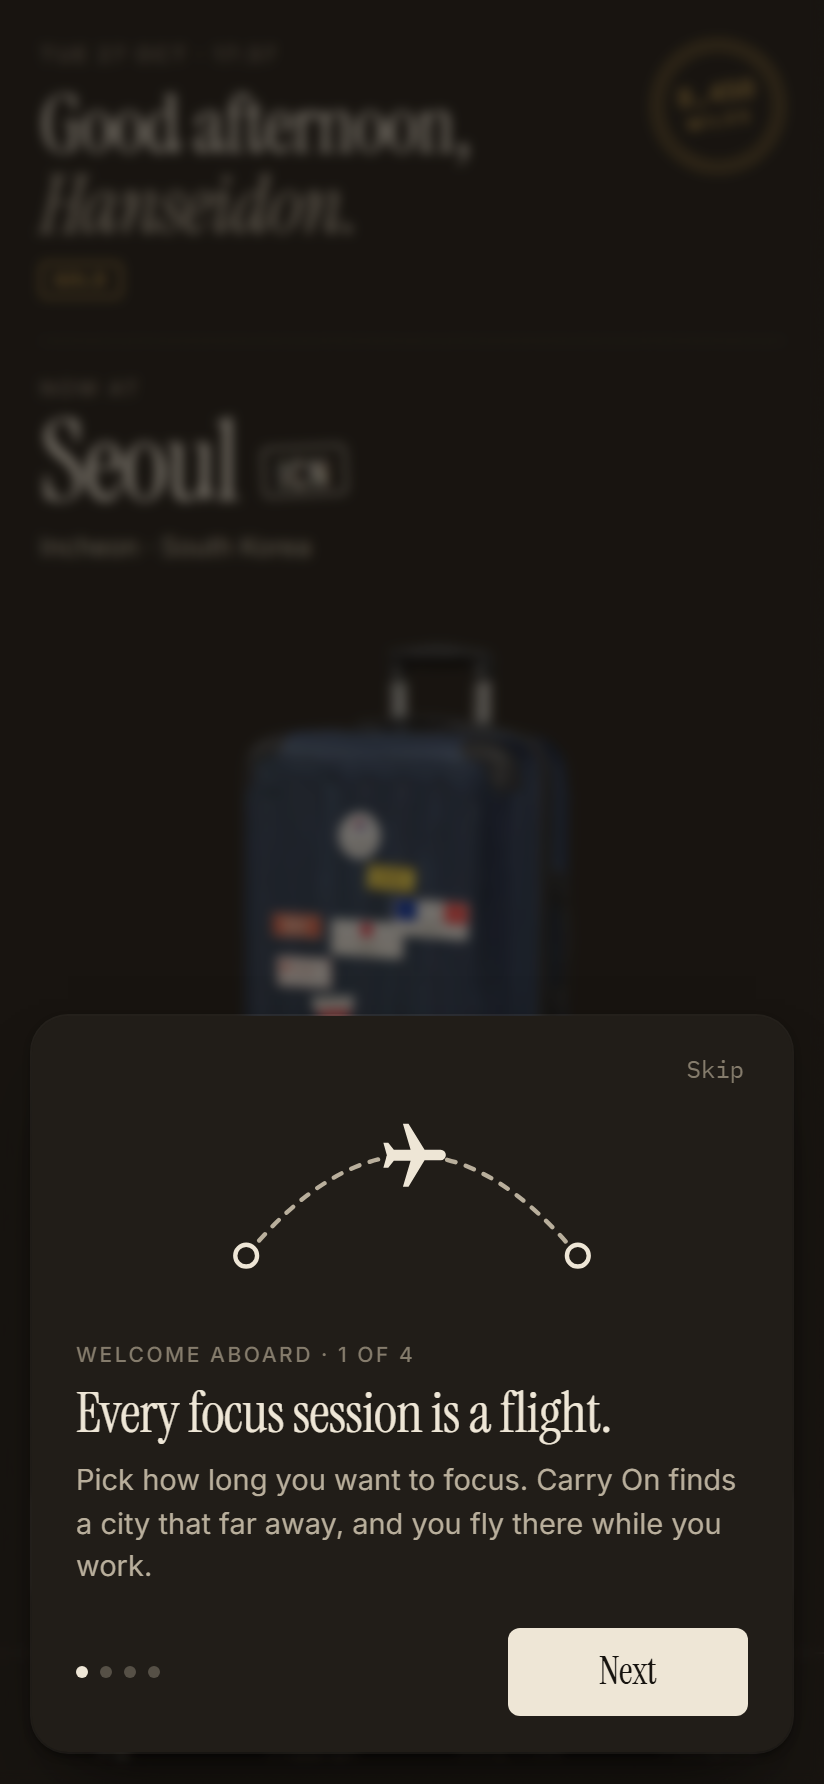
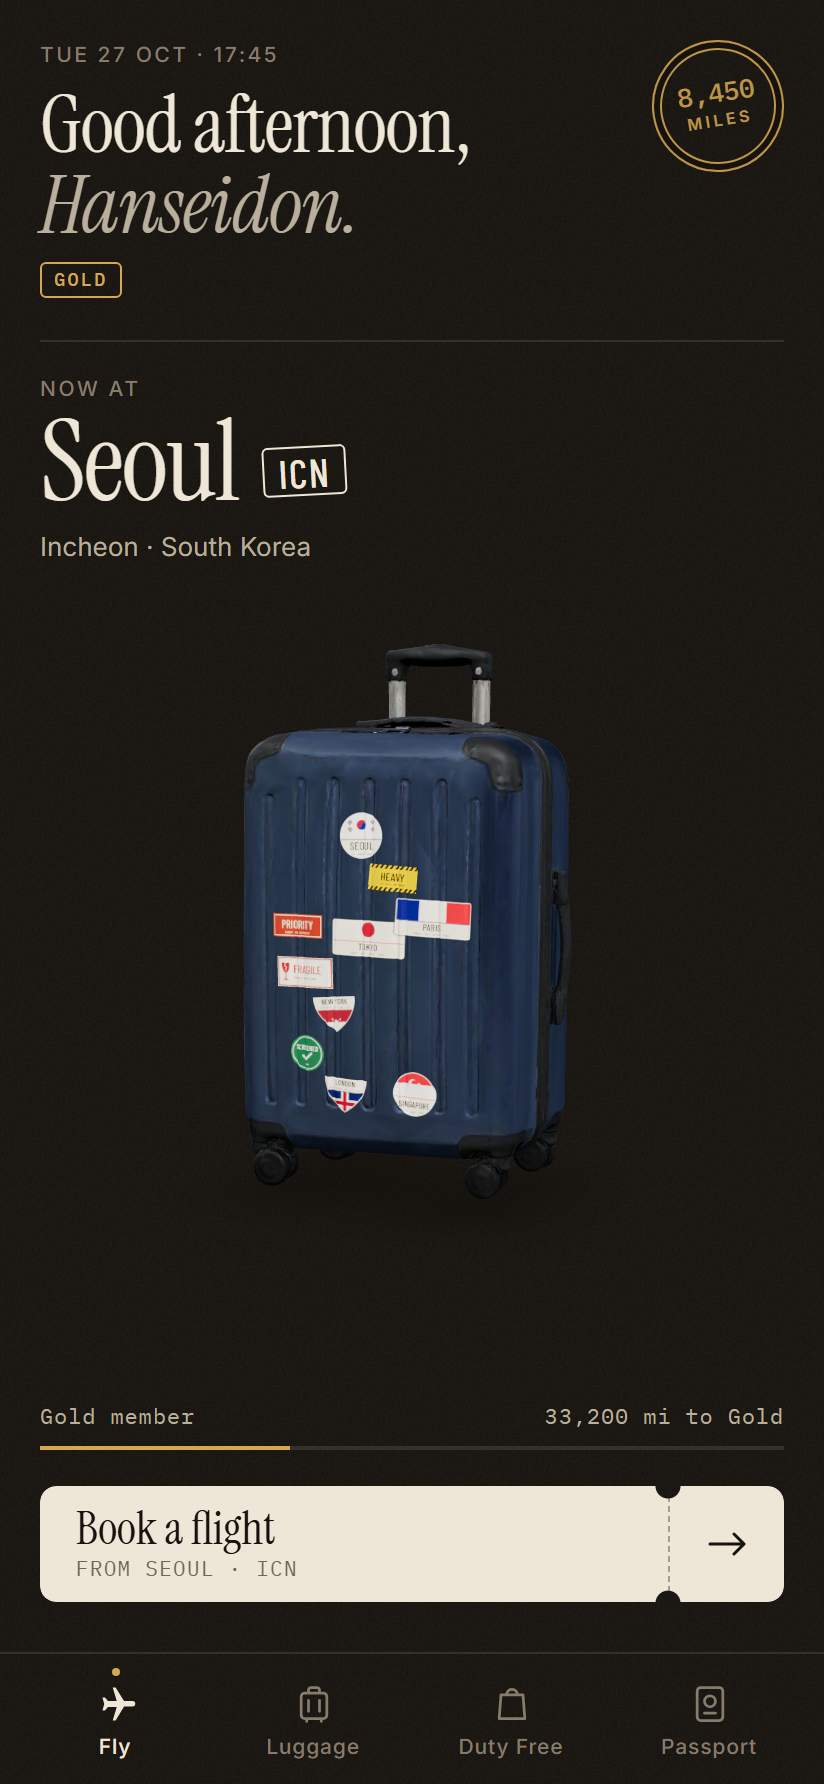
feat: Enhance showcase with clean mobile captures and 3D luggage shelf

diff --git a/src/dev.ts b/src/dev.ts
@@ -3,6 +3,7 @@ import { cityByCode } from './data/cities';
 import { planRoute } from './domain/flightPlan';
 import { autoAssign, buildSeatMap } from './domain/seatmap';
 import type { Screen } from './store/appStore';
+import { useSettings } from './store/settings';
 import type { Tier } from './domain/types';
 
 /**
@@ -31,6 +32,14 @@ export async function seedMockData(): Promise<void> {
   const now = Date.now();
   const carrierId = 'dev-carrier-1';
 
+  // Suppress all first-run guides and coach tutorials during screenshots
+  useSettings.setState({
+    guideSeen: true,
+    bookingGuideSeen: true,
+    tipShownAt: now + 1e11,
+    tipsSeen: ['all'],
+  });
+
   const profile: Profile = {
     id: 'me',
     name: 'Hanseidon',
@@ -44,14 +53,30 @@ export async function seedMockData(): Promise<void> {
   };
   await db.profile.put(profile);
 
-  const carrier: Carrier = {
-    id: carrierId,
-    modelId: '001',
-    color: '',
-    capacity: 12,
-    acquiredAt: now - 30 * 86400000,
-  };
-  await db.carriers.put(carrier);
+  const carriers: Carrier[] = [
+    {
+      id: carrierId,
+      modelId: '001',
+      color: '',
+      capacity: 12,
+      acquiredAt: now - 30 * 86400000,
+    },
+    {
+      id: 'dev-carrier-2',
+      modelId: '002',
+      color: '',
+      capacity: 14,
+      acquiredAt: now - 15 * 86400000,
+    },
+    {
+      id: 'dev-carrier-3',
+      modelId: '003',
+      color: '',
+      capacity: 10,
+      acquiredAt: now - 5 * 86400000,
+    },
+  ];
+  for (const c of carriers) await db.carriers.put(c);
 
   const landedFlights: Flight[] = [
     { id: 'f1', fromCode: 'ICN', toCode: 'HND', scenic: false, airlineCode: 'HN', flightNumber: 'HN474', gate: '12B', seat: '14A', cabin: 'economy', zone: 'wing', purpose: 'work', plannedMinutes: 120, startedAt: now - 10 * 86400000, endedAt: now - 10 * 86400000 + 7200000, status: 'landed', miles: 750, earnedMiles: 900 },

diff --git a/README.md b/README.md
@@ -100,11 +100,20 @@ Your personal flight log formatted as an international standard passport (ICAO 9
 
 <br />
 
-### 6. Carrier Catalog & Duty Free Shop (`Duty Free`)
-A dictionary catalog of over 30 distinct luggage models. Spend accumulated flight miles in the Duty Free shop to collect new carrier types and unlock tier rewards.
+### 6. Luggage Room & Suitcase Collection (`Luggage`)
+Inspect your collection of travel cases on the luggage shelf in real-time 3D. Rotate suitcases, view all earned destination stickers, and switch your active travel bag.
 
 <div align="center">
-  <img src="assets/mobile-06-carrier-shop.png" width="45%" alt="Duty Free Carrier Dictionary" />
+  <img src="assets/mobile-06-luggage.png" width="45%" alt="Luggage Room 3D Suitcase Shelf" />
+</div>
+
+<br />
+
+### 7. Carrier Catalog & Duty Free Shop (`Duty Free`)
+A dictionary catalog of over 30 distinct luggage models across membership tiers. Spend accumulated flight miles in the Duty Free boutique to collect new carrier designs.
+
+<div align="center">
+  <img src="assets/mobile-07-dutyfree.png" width="45%" alt="Duty Free Carrier Boutique" />
 </div>
 
 ---
